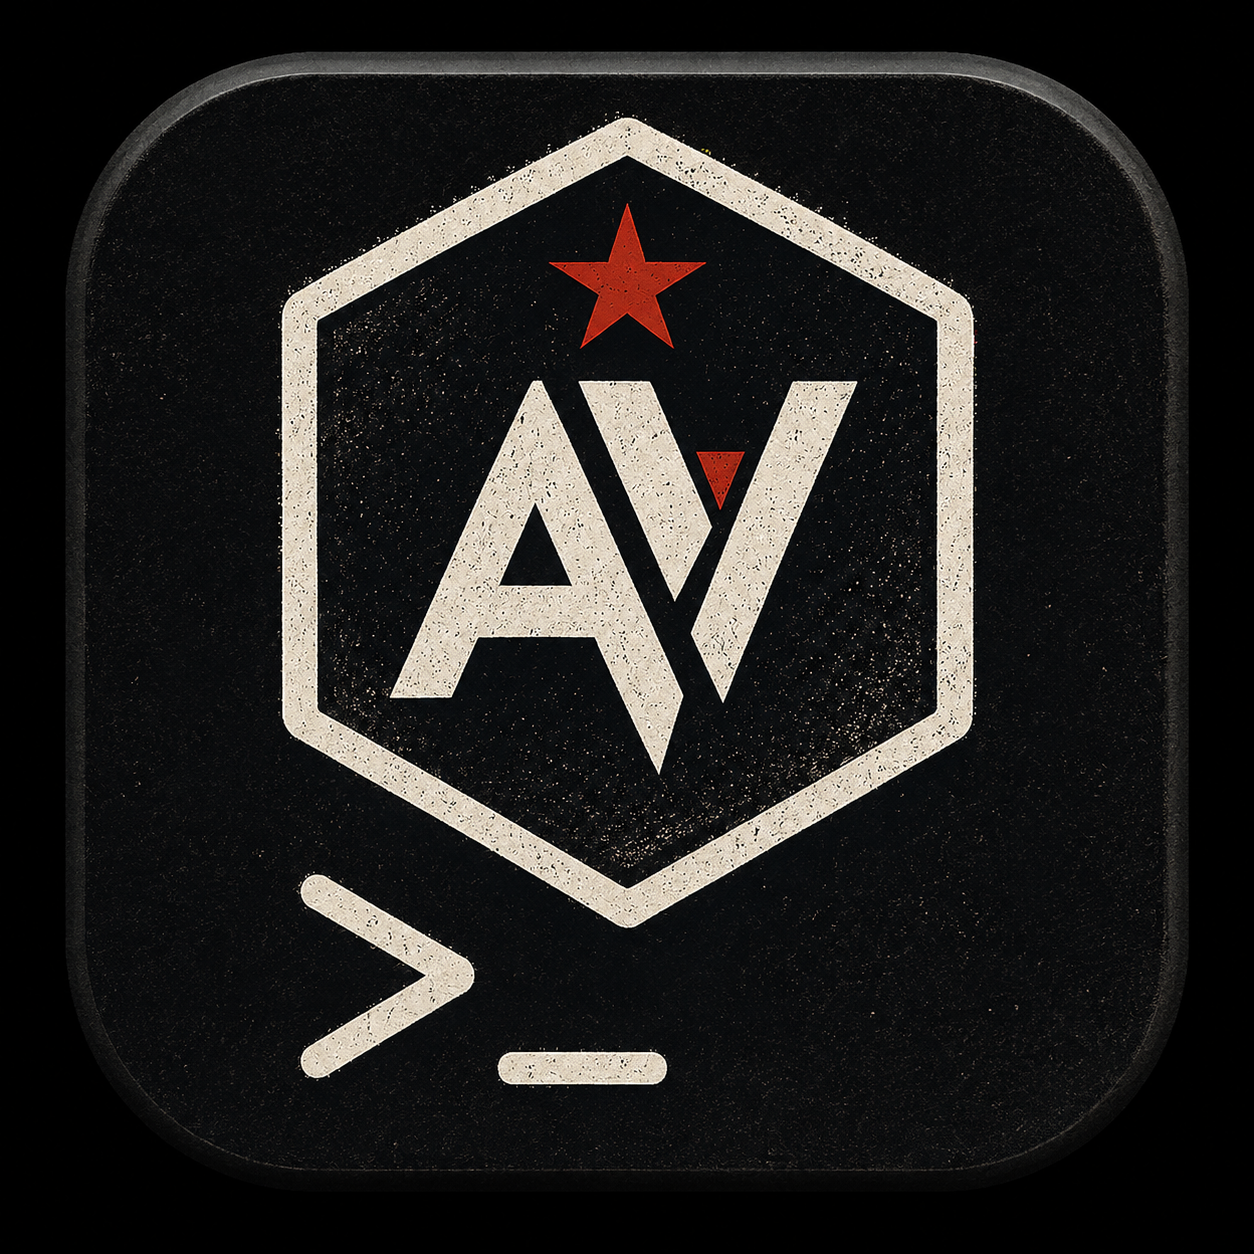
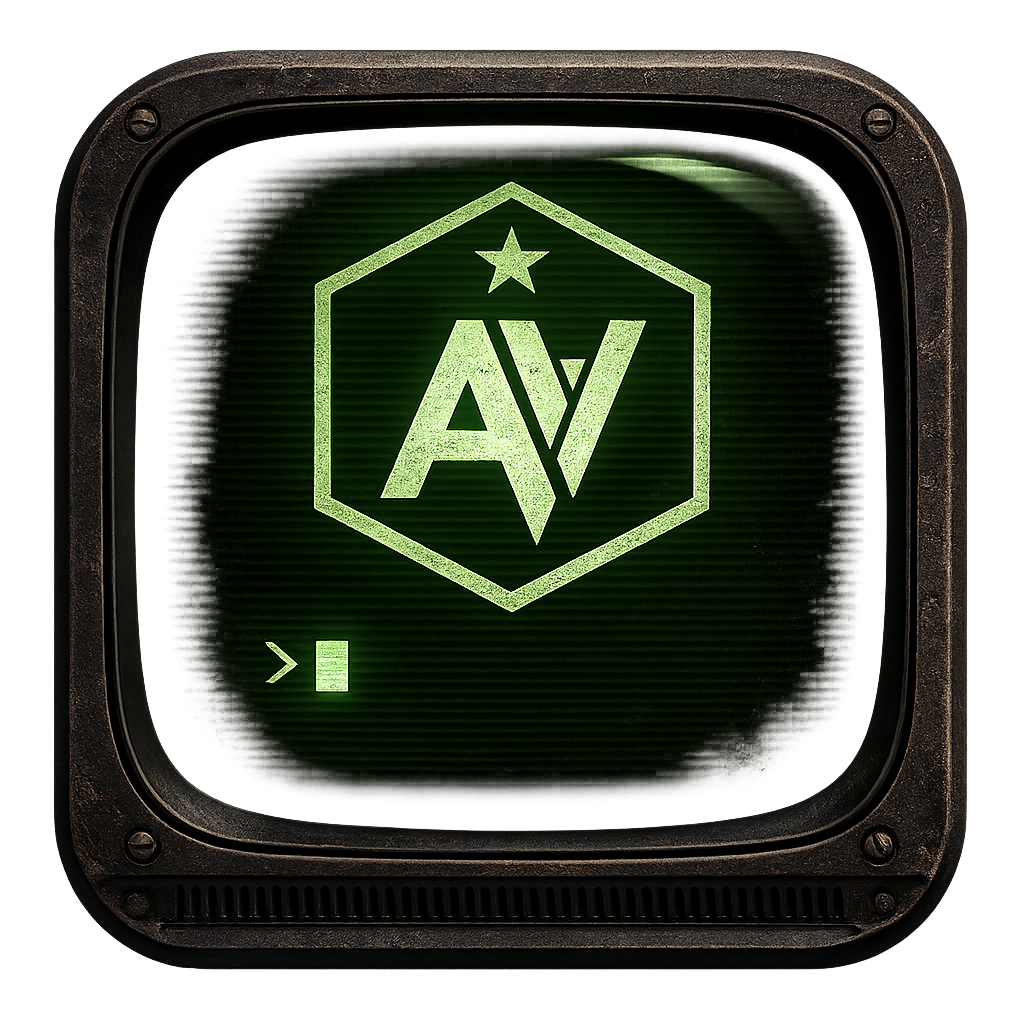
WIP

diff --git a/src/app/Ansi.swift b/src/app/Ansi.swift
@@ -21,76 +21,60 @@ enum Ansi {
     final class StyledTextRenderer {
         private var pending = ""
         private var style = TextStyle()
-        private var shouldSkipNextLineFeed = false
+        private var lines: [[Cell]] = [[]]
+        private var cursorRow = 0
+        private var cursorCol = 0
+        private var savedCursorRow = 0
+        private var savedCursorCol = 0
 
         func reset() {
             pending.removeAll()
             style = TextStyle()
-            shouldSkipNextLineFeed = false
+            lines = [[]]
+            cursorRow = 0
+            cursorCol = 0
+            savedCursorRow = 0
+            savedCursorCol = 0
         }
 
         func process(_ text: String) -> StyledOutput {
             let scalars = Array((pending + text).unicodeScalars)
             pending.removeAll()
 
-            let attributed = NSMutableAttributedString()
-            var plain = ""
-            var run = ""
-
-            func appendVisible(_ value: String) {
-                plain.append(value)
-                run.append(value)
-            }
-
-            func flushRun() {
-                guard !run.isEmpty else { return }
-                attributed.append(NSAttributedString(string: run, attributes: style.attributes()))
-                run.removeAll()
-            }
-
             var index = 0
             while index < scalars.count {
                 let scalar = scalars[index]
-                if shouldSkipNextLineFeed, scalar.value != 0x0A {
-                    shouldSkipNextLineFeed = false
-                }
 
                 switch scalar.value {
                 case 0x1B:
-                    flushRun()
                     guard processEscape(scalars, index: &index) else {
                         pending = String(String.UnicodeScalarView(scalars[index...]))
                         index = scalars.count
                         continue
                     }
+                case 0x07:
+                    index += 1
+                case 0x08:
+                    cursorCol = max(0, cursorCol - 1)
+                    index += 1
                 case 0x09:
-                    appendVisible("\t")
+                    put("\t")
                     index += 1
                 case 0x0A, 0x0B, 0x0C:
-                    if shouldSkipNextLineFeed, scalar.value == 0x0A {
-                        shouldSkipNextLineFeed = false
-                    } else {
-                        appendVisible("\n")
-                    }
+                    lineFeed()
                     index += 1
                 case 0x0D:
-                    appendVisible("\n")
+                    cursorCol = 0
                     index += 1
-                    if scalars.indices.contains(index), scalars[index].value == 0x0A {
-                        index += 1
-                    } else if index == scalars.count {
-                        shouldSkipNextLineFeed = true
-                    }
                 case 0x00..<0x20, 0x7F:
                     index += 1
                 default:
-                    appendVisible(String(scalar))
+                    put(String(scalar))
                     index += 1
                 }
             }
 
-            flushRun()
-            return StyledOutput(plainText: plain, attributedText: attributed)
+            return renderedOutput()
         }
 
         private func processEscape(_ scalars: [Unicode.Scalar], index: inout Int) -> Bool {
@@ -103,9 +87,7 @@ enum Ansi {
                     let value = scalars[cursor].value
                     if value >= 0x40 && value <= 0x7E {
                         let body = String(String.UnicodeScalarView(scalars[(index + 2)..<cursor]))
-                        if scalars[cursor] == "m" {
-                            style.applySGR(parseParameters(body))
-                        }
+                        handleCSI(body: body, final: Character(String(scalars[cursor])))
                         index = cursor + 1
                         return true
                     }
@@ -139,8 +121,188 @@ enum Ansi {
                 return true
             }
 
+            switch introducer {
+            case "7":
+                saveCursor()
+            case "8":
+                restoreCursor()
+            case "D":
+                lineFeed()
+            case "E":
+                cursorCol = 0
+                lineFeed()
+            case "M":
+                cursorRow = max(0, cursorRow - 1)
+            case "c":
+                reset()
+            default:
+                break
+            }
             index += 2
             return true
+        }
+
+        private func handleCSI(body: String, final: Character) {
+            let privateMode = body.first == "?"
+            guard !privateMode else { return }
+
+            let parameters = parseParameters(body)
+            switch final {
+            case "A":
+                cursorRow = max(0, cursorRow - parameter(parameters, at: 0, defaultValue: 1))
+            case "B":
+                cursorRow += parameter(parameters, at: 0, defaultValue: 1)
+                ensureCursorRow()
+            case "C":
+                cursorCol += parameter(parameters, at: 0, defaultValue: 1)
+            case "D":
+                cursorCol = max(0, cursorCol - parameter(parameters, at: 0, defaultValue: 1))
+            case "E":
+                cursorRow += parameter(parameters, at: 0, defaultValue: 1)
+                cursorCol = 0
+                ensureCursorRow()
+            case "F":
+                cursorRow = max(0, cursorRow - parameter(parameters, at: 0, defaultValue: 1))
+                cursorCol = 0
+            case "G":
+                cursorCol = max(0, parameter(parameters, at: 0, defaultValue: 1) - 1)
+            case "H", "f":
+                cursorRow = max(0, parameter(parameters, at: 0, defaultValue: 1) - 1)
+                cursorCol = max(0, parameter(parameters, at: 1, defaultValue: 1) - 1)
+                ensureCursorRow()
+            case "J":
+                eraseDisplay(parameter(parameters, at: 0, defaultValue: 0))
+            case "K":
+                eraseLine(parameter(parameters, at: 0, defaultValue: 0))
+            case "X":
+                eraseCharacters(parameter(parameters, at: 0, defaultValue: 1))
+            case "m":
+                style.applySGR(parameters)
+            case "s":
+                saveCursor()
+            case "u":
+                restoreCursor()
+            default:
+                break
+            }
+        }
+
+        private func put(_ value: String) {
+            ensureCursorRow()
+            while lines[cursorRow].count < cursorCol {
+                lines[cursorRow].append(Cell(text: " ", style: style))
+            }
+            if cursorCol < lines[cursorRow].count {
+                lines[cursorRow][cursorCol] = Cell(text: value, style: style)
+            } else {
+                lines[cursorRow].append(Cell(text: value, style: style))
+            }
+            cursorCol += 1
+        }
+
+        private func lineFeed() {
+            cursorRow += 1
+            cursorCol = 0
+            ensureCursorRow()
+        }
+
+        private func ensureCursorRow() {
+            while cursorRow >= lines.count {
+                lines.append([])
+            }
+        }
+
+        private func eraseDisplay(_ mode: Int) {
+            switch mode {
+            case 0:
+                eraseLine(0)
+                if cursorRow + 1 < lines.count {
+                    lines.removeSubrange((cursorRow + 1)..<lines.count)
+                }
+            case 1:
+                eraseLine(1)
+                if cursorRow > 0 {
+                    for row in 0..<cursorRow {
+                        lines[row] = []
+                    }
+                }
+            case 2, 3:
+                lines = [[]]
+                cursorRow = 0
+                cursorCol = 0
+            default:
+                break
+            }
+        }
+
+        private func eraseLine(_ mode: Int) {
+            ensureCursorRow()
+            switch mode {
+            case 0:
+                if cursorCol < lines[cursorRow].count {
+                    lines[cursorRow].removeSubrange(cursorCol..<lines[cursorRow].count)
+                }
+            case 1:
+                while lines[cursorRow].count <= cursorCol {
+                    lines[cursorRow].append(Cell(text: " ", style: style))
+                }
+                for col in 0...cursorCol {
+                    lines[cursorRow][col] = Cell(text: " ", style: style)
+                }
+            case 2:
+                lines[cursorRow] = []
+            default:
+                break
+            }
+        }
+
+        private func eraseCharacters(_ count: Int) {
+            guard count > 0 else { return }
+            ensureCursorRow()
+            let end = min(lines[cursorRow].count, cursorCol + count)
+            guard cursorCol < end else { return }
+            for col in cursorCol..<end {
+                lines[cursorRow][col] = Cell(text: " ", style: style)
+            }
+        }
+
+        private func saveCursor() {
+            savedCursorRow = cursorRow
+            savedCursorCol = cursorCol
+        }
+
+        private func restoreCursor() {
+            cursorRow = max(0, savedCursorRow)
+            cursorCol = max(0, savedCursorCol)
+            ensureCursorRow()
+        }
+
+        private func renderedOutput() -> StyledOutput {
+            let attributed = NSMutableAttributedString()
+            var plain = ""
+
+            for (rowIndex, line) in lines.enumerated() {
+                for cell in line {
+                    plain.append(cell.text)
+                    attributed.append(NSAttributedString(string: cell.text, attributes: cell.style.attributes()))
+                }
+                if rowIndex < lines.count - 1 {
+                    plain.append("\n")
+                    attributed.append(NSAttributedString(string: "\n", attributes: TextStyle().attributes()))
+                }
+            }
+
+            return StyledOutput(plainText: plain, attributedText: attributed)
+        }
+
+        private func parameter(_ parameters: [Int?], at index: Int, defaultValue: Int) -> Int {
+            guard parameters.indices.contains(index),
+                  let value = parameters[index],
+                  value != 0
+            else {
+                return defaultValue
+            }
+            return value
         }
     }
 

diff --git a/src/app/TerminalViewController.swift b/src/app/TerminalViewController.swift
@@ -1676,9 +1676,10 @@ final class TerminalViewController: NSViewController, NSTextViewDelegate {
             )
         } else {
             let rendered = tab.styledRenderer.process(text)
-            guard !rendered.plainText.isEmpty else { return }
-            tab.blocks[index].output += rendered.plainText
-            tab.blocks[index].attributedOutput.append(rendered.attributedText)
+            tab.blocks[index].output = rendered.plainText
+            tab.blocks[index].attributedOutput = NSMutableAttributedString(
+                attributedString: rendered.attributedText
+            )
         }
 
         tab.blockViews[activeBlockID]?.update(with: tab.blocks[index])